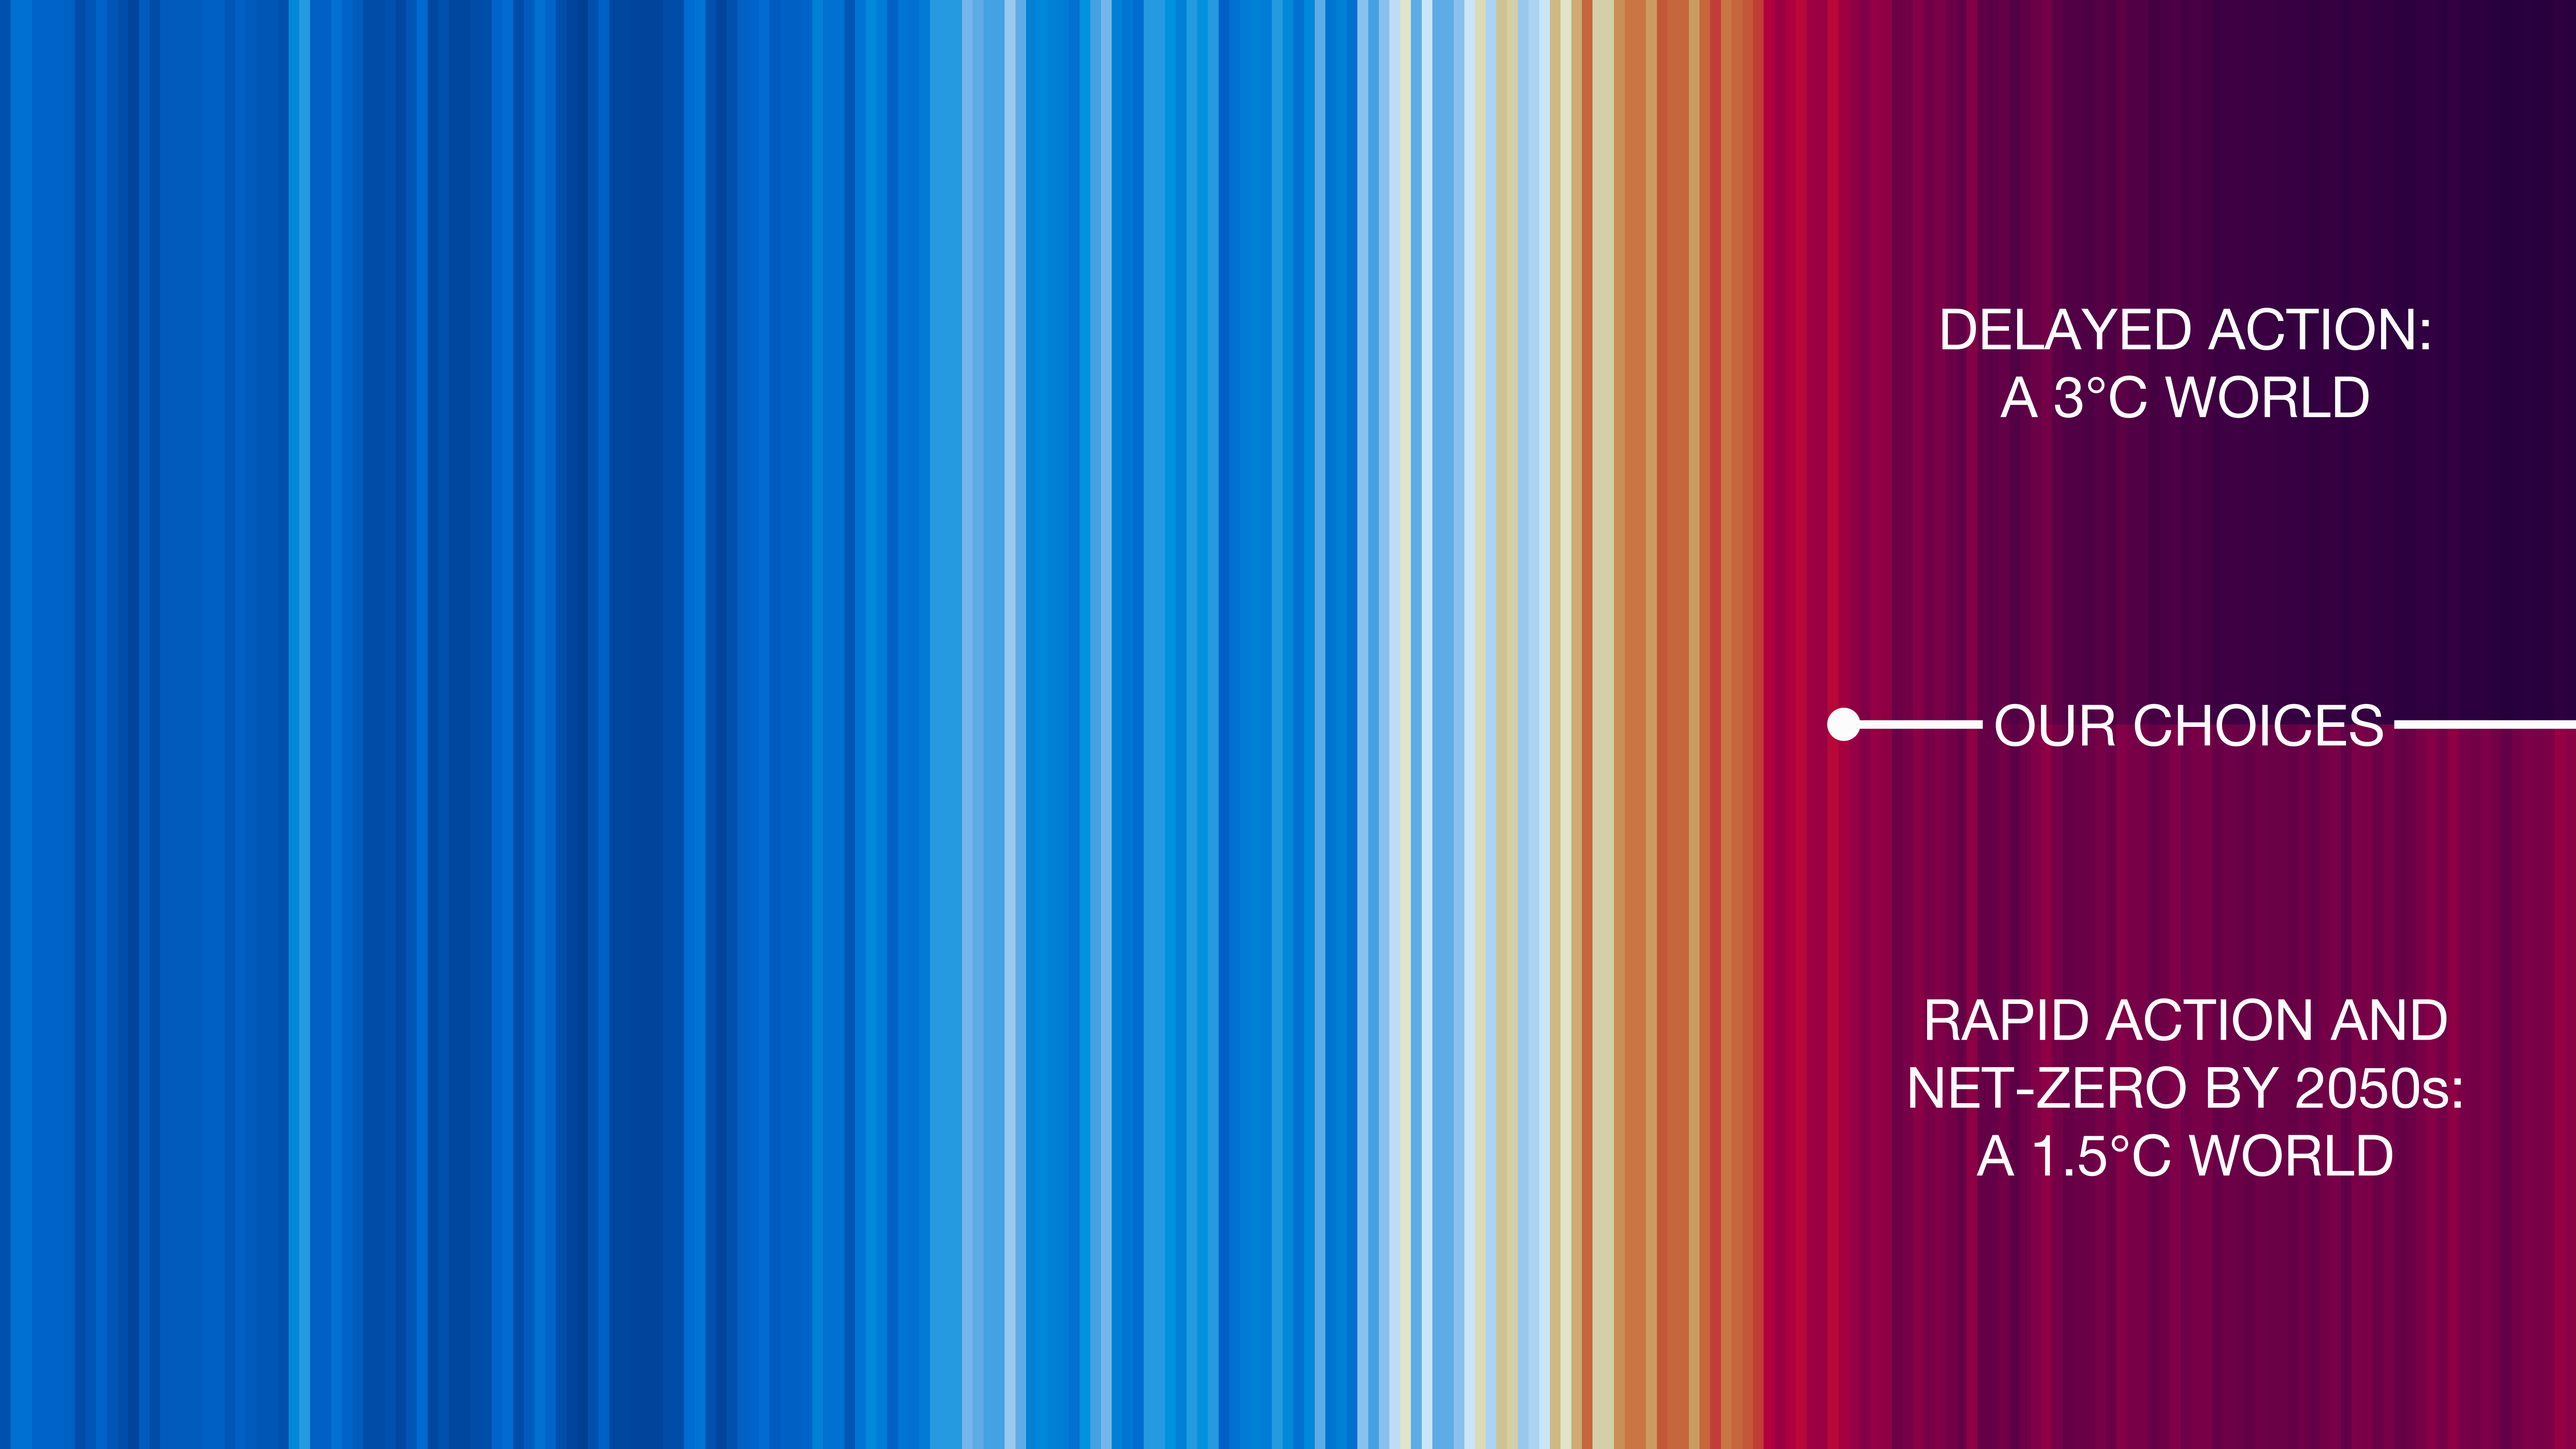
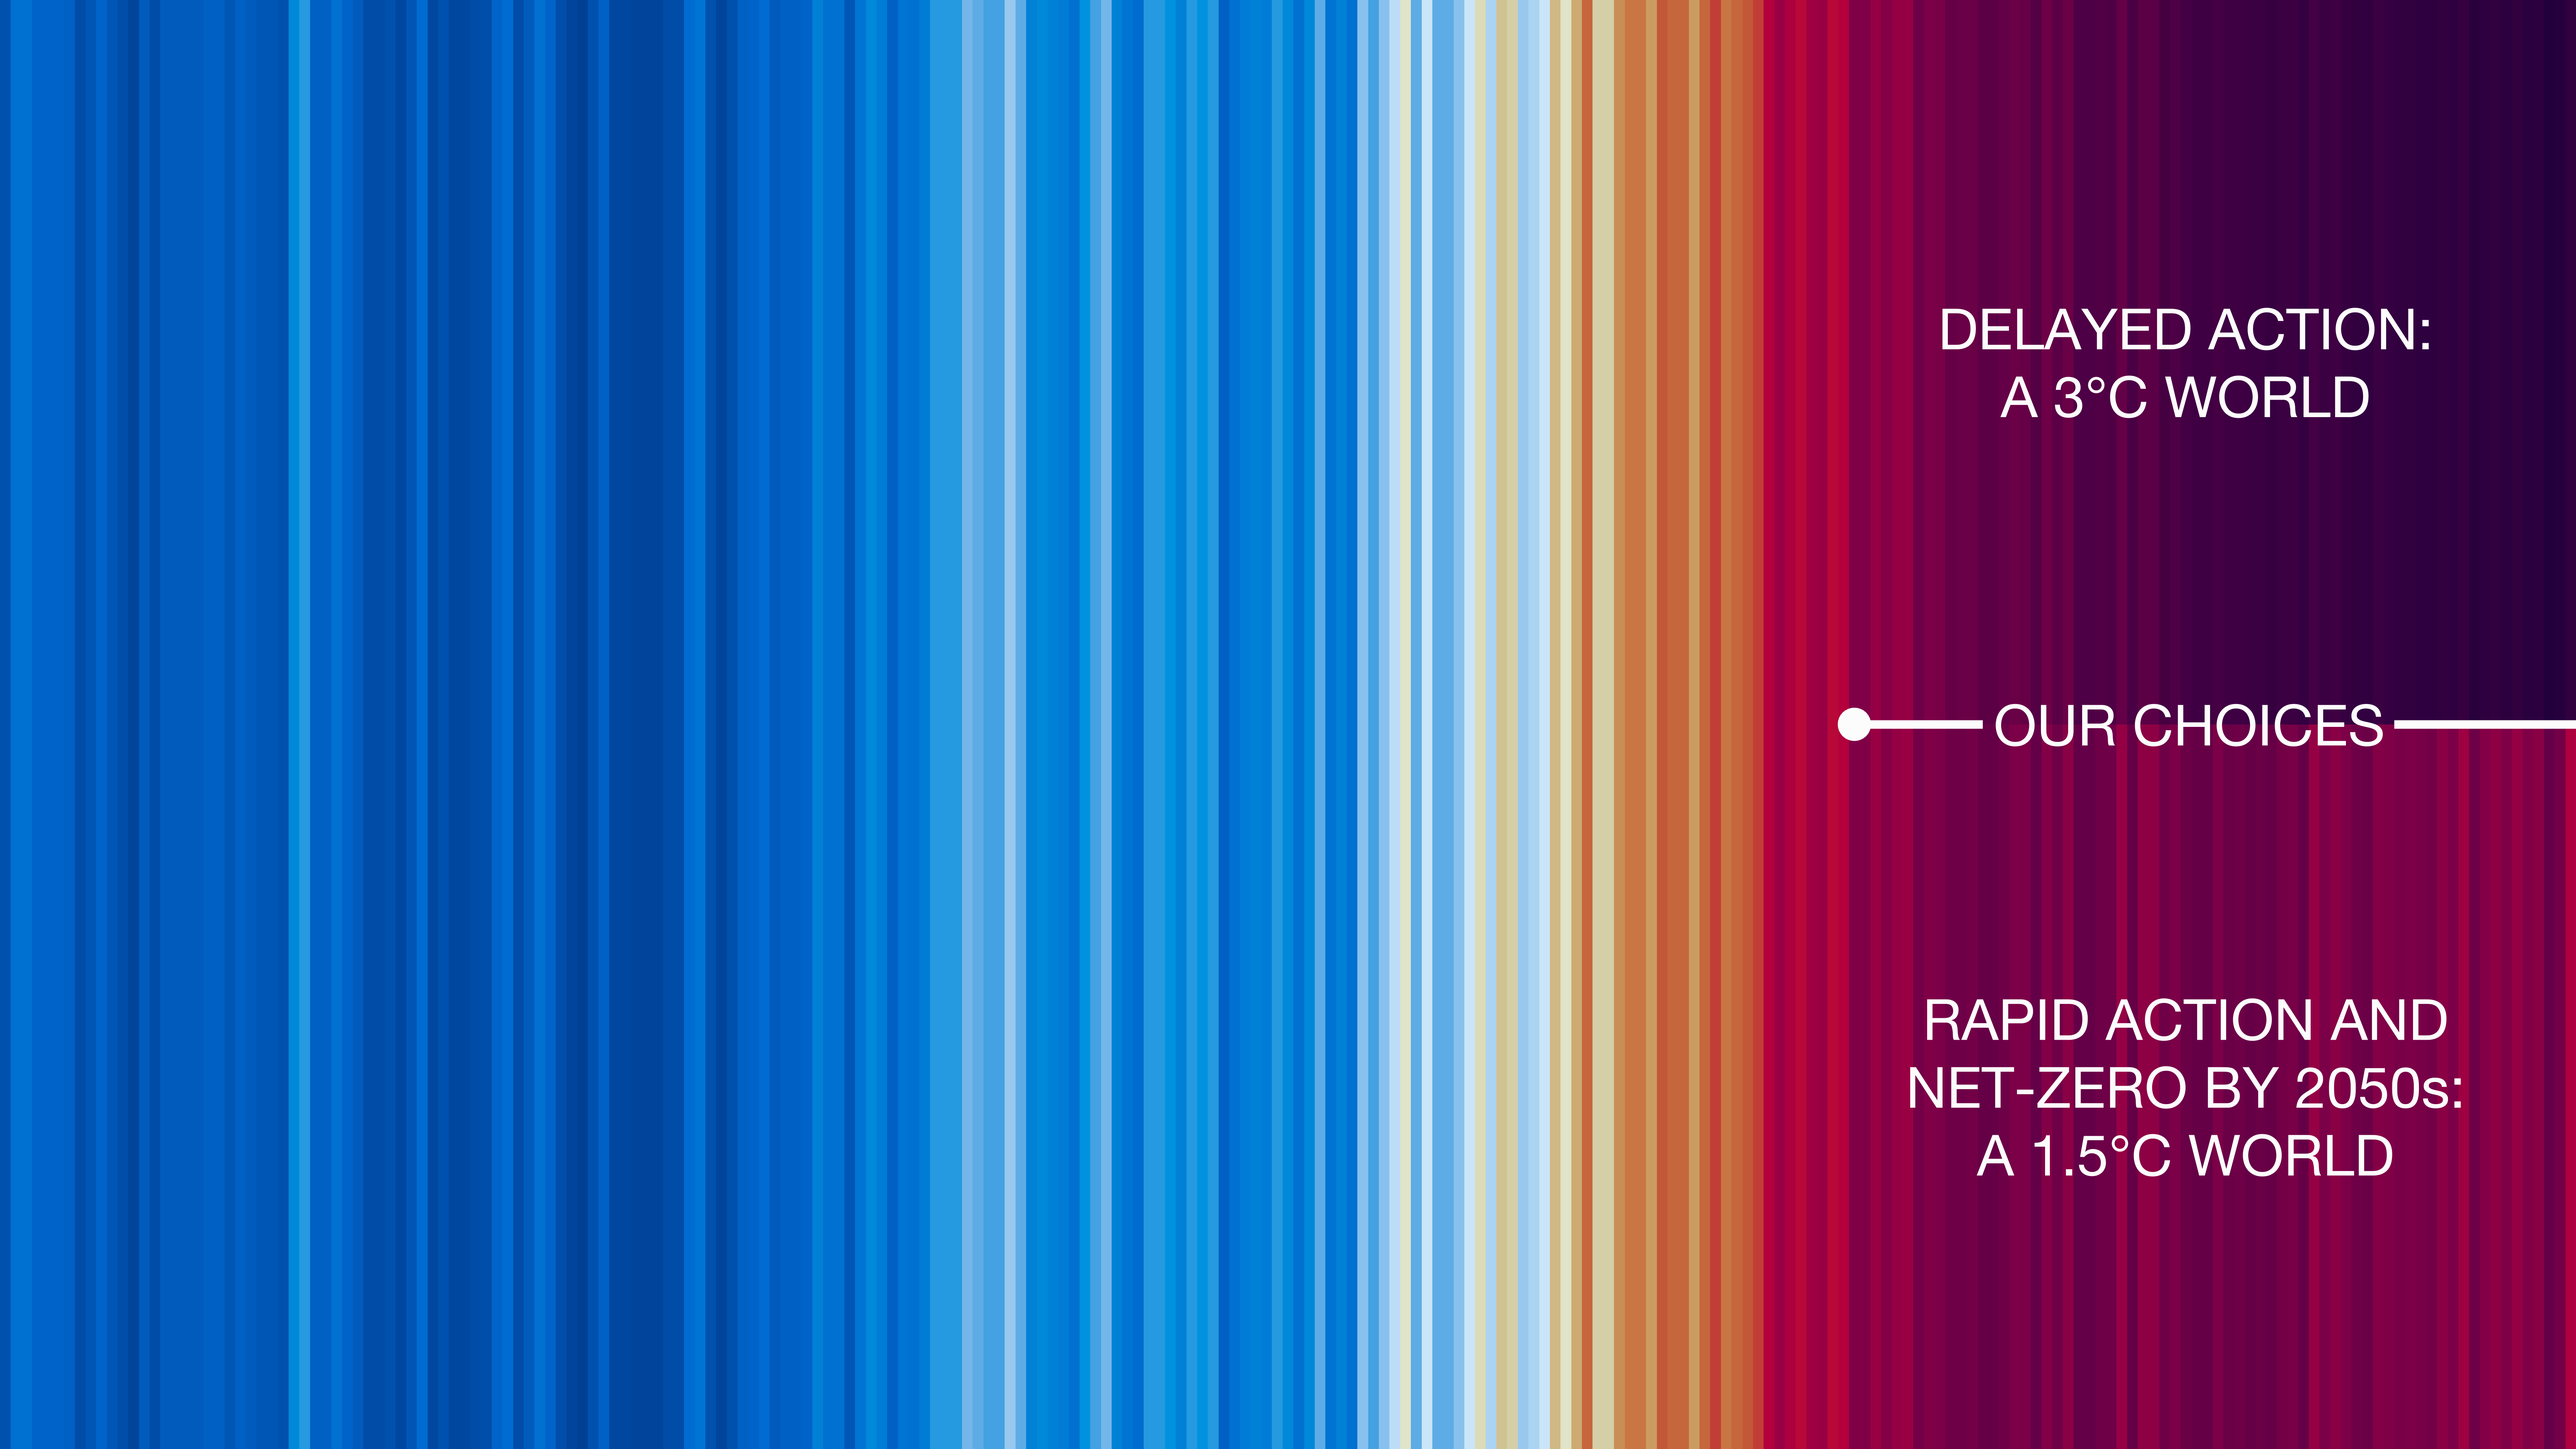
Updates to some graphics

Changed region(s): [[0.7181, 0.0, 0.843, 1.0], [0.8742, 0.4967, 1.0, 1.0]]

diff --git a/stripes-future.md b/stripes-future.md
@@ -1,3 +1,3 @@
 ### Global warming stripes for the past and future
-[![Global Stripes for future](STRIPES/GLOBAL-STRIPES-CHOOSE-YOUR-FUTURE.png)](STRIPES/GLOBAL-STRIPES-CHOOSE-YOUR-FUTURE.png)
 [![Global Stripes for future](STRIPES/GLOBAL-STRIPES-INCLUDING-TWO-FUTURES.png)](STRIPES/GLOBAL-STRIPES-INCLUDING-TWO-FUTURES.png)
+[![Global Stripes for future](STRIPES/GLOBAL-STRIPES-CHOOSE-YOUR-FUTURE.png)](STRIPES/GLOBAL-STRIPES-CHOOSE-YOUR-FUTURE.png)

diff --git a/spirals.md b/spirals.md
@@ -2,5 +2,5 @@
 [![Global Temperature Spiral](SPIRALS/global_temperature_spiral_2023_large.gif)](SPIRALS/global_temperature_spiral_2023_large.gif)
 
 ### Animated spiral of changes in Arctic sea ice volume
-[![Arctic Sea Ice Spiral](SPIRALS/arctic-ice-volume-2022.gif)](SPIRALS/arctic-ice-volume-2022.gif)
+[![Arctic Sea Ice Spiral](SPIRALS/arctic-ice-volume-2024.gif)](SPIRALS/arctic-ice-volume-2024.gif)
 
